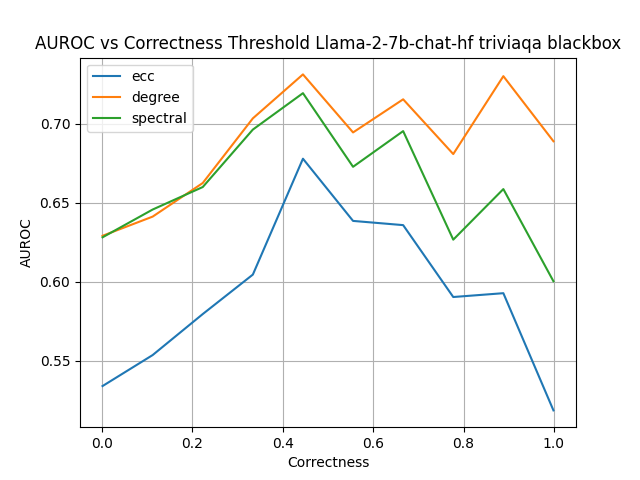
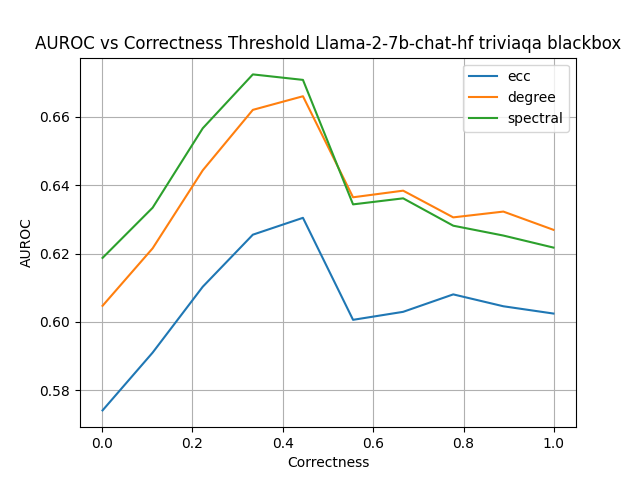
before stash

diff --git a/run/calibrate_blackabox.py b/run/calibrate_blackabox.py
@@ -1,12 +1,9 @@
 import os
 import sys
 sys.path.insert(0, os.path.abspath(os.path.join(os.path.dirname(__file__), '..')))
-import torch
-import datasets
 import argparse
 from transformers import set_seed
-from transformers.pipelines.pt_utils import KeyDataset
-import pandas as pd
+import numpy as np
 from tqdm import tqdm
 import logging
 from indicators import blackbox
@@ -44,12 +41,12 @@ if __name__ == '__main__':
     else:
         raise ValueError(f"Results not found at ../collected/{model}_{args.dataset}.csv")
     
-    ECC = blackbox.Eccentricity(affinity_mode='jaccard')
-    DEGREE = blackbox.Degree(affinity_mode='jaccard')
-    SPECTRAL = blackbox.SpectralEigv(affinity_mode='jaccard', temperature=None)
+    ECC = blackbox.Eccentricity(affinity_mode='disagreement')
+    DEGREE = blackbox.Degree(affinity_mode='disagreement')
+    SPECTRAL = blackbox.SpectralEigv(affinity_mode='disagreement')
 
     results = []
-    for idx, row in tqdm(enumerate(data)):
+    for idx, row in tqdm(enumerate(data), total=len(data)):
         result = {"idx": idx}
         prompts = row['prompt']
         references = row['references']
@@ -57,15 +54,17 @@ if __name__ == '__main__':
         generations_sampled = row['sampled']
 
         ecc_u, ecc_c = ECC.compute_scores([prompts], [generations_sampled])
-        result['ecc_u'] = ecc_u[0]
+        result['ecc_u'] = np.float64(ecc_u[0])
         result['ecc_c'] = ecc_c[0].tolist()
+        result['ecc_c'] = [np.float64(x) for x in result['ecc_c']]
 
         degree_u, degree_c= DEGREE.compute_scores([prompts], [generations_sampled])
-        result['degree_u'] = degree_u[0]
+        result['degree_u'] = np.float64(degree_u[0])
         result['degree_c'] = degree_c[0].tolist()
+        result['degree_c'] = [np.float64(x) for x in result['degree_c']]
 
         spectral_u = SPECTRAL.compute_scores([prompts], [generations_sampled])
-        result['spectral_u'] = spectral_u[0]
+        result['spectral_u'] = np.float64(spectral_u[0])
 
         results.append(result)
         if idx % 10 == 0:

diff --git a/indicators/blackbox.py b/indicators/blackbox.py
@@ -161,7 +161,7 @@ class SpectralEigv(BlackBox):
             self.consistency = jaccard_similarity
         else:
             nlimodel = opensource.NLIModel(device='cuda')
-            self.consistency = SemanticConsistency(nlimodel).similarity_mat
+            self.sm = SemanticConsistency(nlimodel)
 
     def compute_scores(self, batch_prompts, batch_responses, **kwargs):
         sim_mats = jaccard_similarity(batch_responses) if self.affinity_mode == 'jaccard' else self.sm.similarity_mat(batch_prompts, batch_responses)

diff --git a/run/analysis.py b/run/analysis.py
@@ -14,7 +14,7 @@ if __name__ == '__main__':
     parser = argparse.ArgumentParser()
     parser.add_argument('--root_dir', type=str, default='../tmp')
     parser.add_argument('--correctness', type=str, default='rouge')
-    parser.add_argument('--mode', type=str, default='rouge1')
+    parser.add_argument('--mode', type=str, default='rougeL')
 
     args = parser.parse_args()
 
